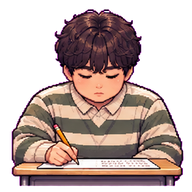
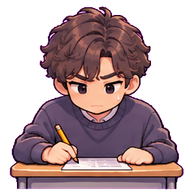
feat: 15 playable cases - shoe device, wig device, chest camera
From images/catch_시트4.png: three new playable examinees with reported tells
(IN 2021 suspicious behaviour + earpiece, ES 2023 obvious wig, ES 2025 chest
kept close to the screen; poses staged and labelled as such), two look-alike
innocents (pick-up-pencil -> shoe-device, fix-hair -> wig-device), and
re-drawn earbud-swallow, earpiece-hidden and turn-back (ear-bandage kept).

The dex progress total now comes from the data (0 / 15), dead prop mappings
for the now-playable cases are dropped, and e2e picks any confirmed case of
the seed round instead of a fixed id.

diff --git a/tests/content.test.ts b/tests/content.test.ts
@@ -9,15 +9,16 @@ const innocents = read<Innocent[]>('../public/data/innocents.json')
 const PLAYABLE = [
   'smart-glasses-frame', 'glasses-lens-heat', 'earpiece-hidden', 'bone-conduction', 'smartwatch', 'phone-in-clothes',
   'glasses-swap', 'earbud-swallow', 'ear-bandage', 'signal-fingers', 'peek', 'cheat-sheet-sleeve',
+  'shoe-device', 'wig-device', 'camera-ai-watch',
 ]
 const DEX_ONLY = [
   'button-camera', 'calculator-mod', 'body-writing', 'disguised-item', 'phone-in-bag', 'proxy-id',
-  'shoe-device', 'wig-device', 'camera-ai-watch', 'eraser-receiver', 'sms-relay', 'online-ask', 'outside-help', 'restroom-relay', 'insider-leak',
+  'eraser-receiver', 'sms-relay', 'online-ask', 'outside-help', 'restroom-relay', 'insider-leak',
 ]
 const RUMORS = ['rumor-forum-confession', 'rumor-video-comment', 'rumor-broker-telegram']
 const INNOCENTS = [
   'think-chin', 'look-up', 'plain-glasses', 'yawn', 'pencil-spin', 'rub-eyes', 'analog-watch', 'plain-calculator',
-  'sneeze', 'drink-water', 'scratch-head', 'stretch', 'erase', 'turn-back', 'nose-sniff',
+  'sneeze', 'drink-water', 'scratch-head', 'stretch', 'erase', 'turn-back', 'nose-sniff', 'pick-up-pencil', 'fix-hair',
 ]
 const LOOKALIKES: Record<string, string> = {
   'smart-glasses-frame': 'plain-glasses',
@@ -25,6 +26,8 @@ const LOOKALIKES: Record<string, string> = {
   smartwatch: 'analog-watch',
   'earpiece-hidden': 'sneeze',
   'earbud-swallow': 'sneeze',
+  'shoe-device': 'pick-up-pencil',
+  'wig-device': 'fix-hair',
 }
 const STATUSES = ['confirmed', 'investigating', 'mentioned', 'unverified']
 const BASIS = ['report', 'guideline', 'community', 'industry']
@@ -41,7 +44,7 @@ function strings(value: unknown): string[] {
 }
 
 describe('cases.json', () => {
-  it('has the exact id sets: 12 playable, 6 dex-only, 3 rumors', () => {
+  it('has the exact id sets: 15 playable, 12 dex-only, 3 rumors', () => {
     expect(ids(cases.filter((c) => c.playable))).toEqual([...PLAYABLE].sort())
     expect(ids(cases.filter((c) => !c.playable && c.status !== 'unverified'))).toEqual([...DEX_ONLY].sort())
     expect(ids(cases.filter((c) => c.status === 'unverified'))).toEqual([...RUMORS].sort())
@@ -103,7 +106,7 @@ describe('cases.json', () => {
 })
 
 describe('innocents.json', () => {
-  it('has the 15 ids with a behavior and a reason', () => {
+  it('has the 17 ids with a behavior and a reason', () => {
     expect(ids(innocents)).toEqual([...INNOCENTS].sort())
     for (const i of innocents) {
       expect(['oneoff', 'repeat'], i.id).toContain(i.behavior)

diff --git a/e2e/dex.spec.ts b/e2e/dex.spec.ts
@@ -1,11 +1,14 @@
+import { readFileSync } from 'node:fs'
 import { expect, test } from '@playwright/test'
+
+const PLAYABLE = (JSON.parse(readFileSync('public/data/cases.json', 'utf8')) as { playable?: boolean }[]).filter((c) => c.playable).length
 
 test.use({ viewport: { width: 375, height: 667 } })
 
 test('도감: 27장(미검증 제외), 해외 필터 감소', async ({ page }) => {
   await page.goto('/dex')
   await expect(page.locator('#grid .dcard')).toHaveCount(27)
-  await expect(page.locator('#progress')).toHaveText('0 / 12')
+  await expect(page.locator('#progress')).toHaveText(`0 / ${PLAYABLE}`)
   await page.selectOption('#f-region', 'world')
   const n = await page.locator('#grid .dcard').count()
   expect(n).toBeGreaterThan(0)
@@ -53,7 +56,7 @@ test('도감: localStorage가 예외를 던져도 목록 렌더', async ({ page 
 test('도감: 발견 표시 반영', async ({ page }) => {
   await page.addInitScript(() => localStorage.setItem('cf:discovered', JSON.stringify(['peek'])))
   await page.goto('/dex')
-  await expect(page.locator('#progress')).toHaveText('1 / 12')
+  await expect(page.locator('#progress')).toHaveText(`1 / ${PLAYABLE}`)
 })
 
 test('도감: 미검증 코너는 접혀 있고 열면 3건', async ({ page }) => {

diff --git a/public/dex.js b/public/dex.js
@@ -12,9 +12,6 @@ const PROP = {
   'disguised-item': 'prop-cheat-note',
   'phone-in-bag': 'prop-phone-glow',
   'proxy-id': 'prop-id-card',
-  'shoe-device': 'prop-bt-slipper',
-  'wig-device': 'prop-wig',
-  'camera-ai-watch': 'prop-camera-watch',
   'eraser-receiver': 'prop-eraser-screen',
   'sms-relay': 'prop-flip-phone',
   'online-ask': 'prop-qa-phone',
@@ -22,7 +19,6 @@ const PROP = {
   'restroom-relay': 'prop-restroom-note',
   'insider-leak': 'prop-exam-envelope',
 }
-const PLAYABLE_TOTAL = 12
 
 function el(tag, props = {}, kids = []) {
   const n = document.createElement(tag)
@@ -82,7 +78,8 @@ function render() {
   grid.replaceChildren(...list.map(card))
   $('empty').hidden = list.length > 0
   const n = cases.filter((c) => c.playable && discovered.has(c.id)).length
-  $('progress').textContent = `${n} / ${PLAYABLE_TOTAL}`
+  // Total comes from the data, so adding a playable case needs no code change.
+  $('progress').textContent = `${n} / ${cases.filter((c) => c.playable).length}`
 }
 
 function renderRumors() {

diff --git a/tests/placeholders.test.ts b/tests/placeholders.test.ts
@@ -22,14 +22,14 @@ async function size(file: string) {
 }
 
 describe('placeholder art', () => {
-  it('has 27 people', () => expect(ids).toHaveLength(27))
+  it('has 32 people', () => expect(ids).toHaveLength(32))
 
   it('prop ids are unique, and every dex icon points at one of them', () => {
     expect(new Set(props).size).toBe(props.length)
     const dexSrc = readFileSync(p('dex.js'), 'utf8')
     const block = dexSrc.slice(dexSrc.indexOf('const PROP = {'), dexSrc.indexOf('}', dexSrc.indexOf('const PROP = {')))
     const used = [...block.matchAll(/:\s*'(prop-[a-z-]+)'/g)].map((m) => m[1])
-    expect(used.length).toBe(15)
+    expect(used.length).toBe(12)
     for (const id of used) expect(props, id).toContain(id)
   })
 

diff --git a/public/dex.html b/public/dex.html
@@ -48,7 +48,7 @@
     <main class="wrap">
       <div class="top">
         <h1>도감</h1>
-        <p class="progress">발견 <span id="progress">0 / 12</span></p>
+        <p class="progress">발견 <span id="progress">0 / 15</span></p>
       </div>
       <p class="progress">보도된 수법과 그 출처를 모았습니다. 게임에서 찾아내면 발견 표시가 붙습니다.</p>
 

diff --git a/docs/assets/image-prompts.md b/docs/assets/image-prompts.md
@@ -26,7 +26,7 @@
 **v1 → v2**
 
 - 단서는 **행동**이다. 그래서 한 응시자를 **두 포즈**(기본 / 행동)로 그린다. 게임에서 5초쯤 간격으로 행동 포즈로 바뀌었다 돌아온다.
-- 게임에 나오는 수법은 근거가 확인된 **12종**. 나머지 도감 전용(v2 때 6종, v4에서 15종)은 응시자 이미지가 필요 없고 **소품 시트**만 쓴다.
+- 게임에 나오는 수법은 근거가 확인된 **12종**(v5에서 15종). 나머지 도감 전용(v2 때 6종, v4에서 15종, v5에서 12종)은 응시자 이미지가 필요 없고 **소품 시트**만 쓴다.
 - 평범한 응시자는 **15명**으로 늘렸다 (한 판에 5~6명이 나오므로 반복되는 얼굴을 줄이기 위해).
 
 ## 1. 공통 규칙
@@ -109,7 +109,9 @@ watermark, no UI. Clean edges, no blur, no noise.
 | 8 | `turn-back` | writing | turning the head back toward the clock on the wall at the back of the room (not toward neighbors) |
 | 9 | `nose-sniff` | writing | rubbing the nose and sniffling, a cold |
 
-## 4-2. 시트 4 — 새 수법 3명 + 새 평범 2명 + 다시 그리기 4명 (파일: `images/catch_시트4.png`)
+## 4-2. 시트 4 — 새 수법 3명 + 새 평범 2명 + 다시 그리기 4명 (파일: `images/catch_시트4.png`, 완료)
+
+반영: 1~5번 전부, 다시 그리기는 7·8·9번만 교체. 6번 `ear-bandage`는 기존 그림을 유지했다.
 
 공통 스타일 블록(§1) 뒤에 아래 칸 설명을 붙인다. 6~9번은 기존 칸을 **다시 그린 것**이다. 기존보다 나을 때만 교체하고, 아니면 버린다(자를 때 임시 디렉터리로 먼저 낸다).
 
@@ -280,7 +282,7 @@ no desks, no people. No text, no letters, no numbers, no watermark.
 | 시트3 | 9 평범 | 18프레임 |
 | 소품시트 | 9 | 9 (완료) |
 | 소품시트2 | 9 | 9 (완료) |
-| 시트4 | 3 수법 + 2 평범 + 4 다시 | 18프레임 (**새로 생성**) |
+| 시트4 | 3 수법 + 2 평범 + 4 다시 | 18프레임 (완료, 6번은 미채택) |
 | 시험장 | 1 | 1 |
 | 합계 | 시트 7장 | 응시자 64프레임(+다시 그린 8) + 소품 18 + 배경 1 |
 

diff --git a/CLAUDE.md b/CLAUDE.md
@@ -28,8 +28,8 @@ public/index.html       소개 + 도감/게임 진입
 public/dex.html, dex.js, dex-logic.js   도감 (목록·필터 3축·상세·발견 표시). 순수 로직은 dex-logic.js
 public/play.html, play.css              게임 화면
 public/site.css         공통 스타일
-public/data/cases.json      사건·수법 도감 데이터 (수법 12종 출전 + 도감 전용 15종 + 미검증 소문 3건). 분류 device·collab·classic·proxy·leak
-public/data/innocents.json  평범한 응시자 15명 (id, name, behavior, action, why, vs). `action`은 `tell.action`과 같은 "…한다" 문장, `why`는 정상인 구체적 이유, `vs`는 비슷한 부정행위 단서와 겉으로 보이는 차이
+public/data/cases.json      사건·수법 도감 데이터 (수법 15종 출전 + 도감 전용 12종 + 미검증 소문 3건). 분류 device·collab·classic·proxy·leak
+public/data/innocents.json  평범한 응시자 17명 (id, name, behavior, action, why, vs). `action`은 `tell.action`과 같은 "…한다" 문장, `why`는 정상인 구체적 이유, `vs`는 비슷한 부정행위 단서와 겉으로 보이는 차이
 public/game/round.js    판 구성: 수법 5~8(`MIN_CHEATERS`·`MAX_CHEATERS`) + 평범 1~4, 해외 사례 최소 1, 헷갈리는 쌍 배치, 좌석별 행동 포즈 시각(onsets·swapAtMs) 생성
 public/game/engine.js   60초·오해 1번이면 종료(`LIVES=1`)·포즈 판정(poseAt)·탭 판정·적발 좌석 재탭 무시·glasses-swap
 public/game/result.js   기록(c·m·f·t)과 칭호 계산, 결과 화면 시간 줄(endTimeLine)
